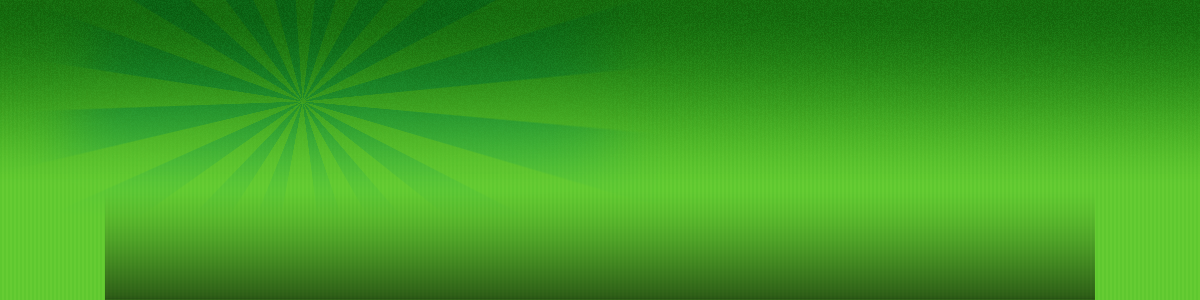
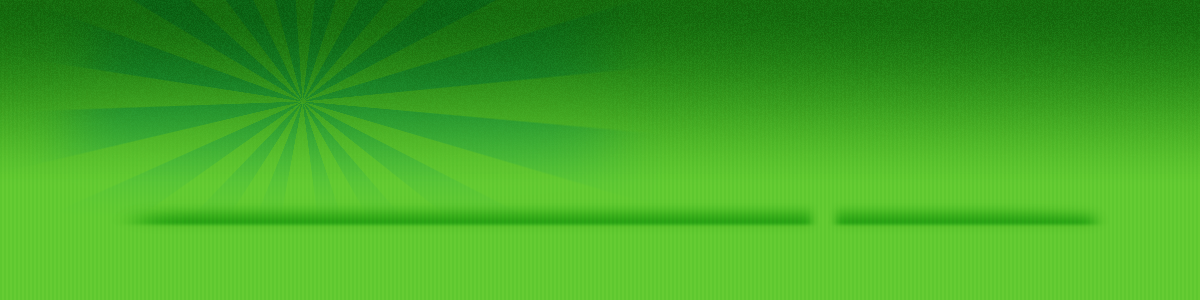
Latest commits for header change

Changed region(s): [[0.0617, 0.69, 0.925, 1.0]]

diff --git a/app/webroot/css/temp/style.css b/app/webroot/css/temp/style.css
@@ -295,48 +295,6 @@ ul.menu-link li.active,ul.menu-link li:hover {
 ul.menu-link li.active a,ul.menu-link li:hover a {
 	background:url(../img/login-bg-right-h.png) no-repeat right top;
 }
-
-/* */
-
-.top-slider {
-	border-bottom:3px solid #00B5C8;
-	width:171px;
-	position:absolute;
-	background:#00B5C8;
-	top:28px;
-	right:0px;
-	height:110px;
-	overflow:auto;
-}
-div.top-slider1 {
-	background:#616261;
-	border-bottom:4px solid #A0CA4E;
-	font-size:13px;
-}
-div.top-slider1 form.subscription,div.cities-index-block {
-	width:973px;
-	margin:0px auto;
-}
-div.top-slider1 ol.cities-list {
-	border-bottom:none;
-	border-left:1px dashed #fff;
-}
-div.top-slider1 ol.cities-list li {
-	border-bottom:1px dashed #FFFFFF;
-	border-right:1px dashed #FFFFFF;
-	width:179px;
-	padding:7px;
-}
-div.top-slider1 form.subscription div.input label {
-	display:block;
-	text-align:right;
-	width:auto;
-	color:#fff;
-	margin:7px 0 0;
-}
-div.top-slider1 form.subscription div.input input {
-	margin-left:50px;
-}
 div.cities-info-block {
 	width:auto;
 	margin:0px auto;

diff --git a/app/webroot/css/style.css b/app/webroot/css/style.css
@@ -283,7 +283,7 @@ dl.total-list dd span {
 }
 
 /* MAIN NAVIGATION BUTTONS */
-.menu-block	{ }
+.menu-block	{}
 ul.menu		{	float:left; }
 ul.menu li {
 /*	background:url("../img/menu-left.png") no-repeat left top; */
@@ -293,9 +293,11 @@ ul.menu li {
 ul.menu li a {
 /*	background:url("../img/menu-right.png") no-repeat right top; */
 	background-color:#FFF;
+	-moz-border-radius:8px;
+	border-radius:8px;
 	color:#35af44;
 	display:block;
-	font-size:13px;
+	font-size:14px;
 	font-weight:700;
 	padding: 8px 10px;
 }
